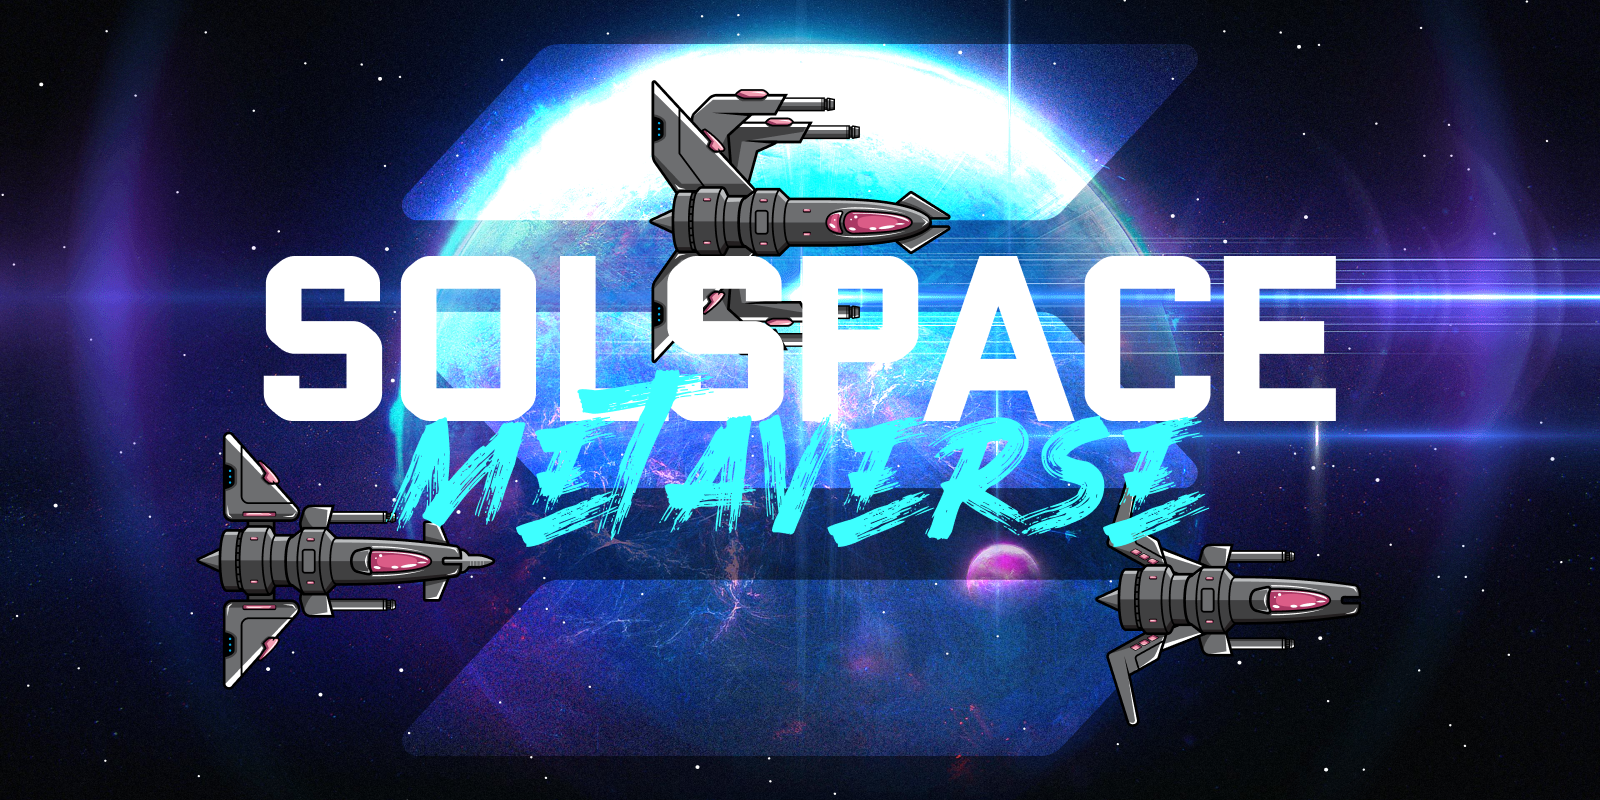
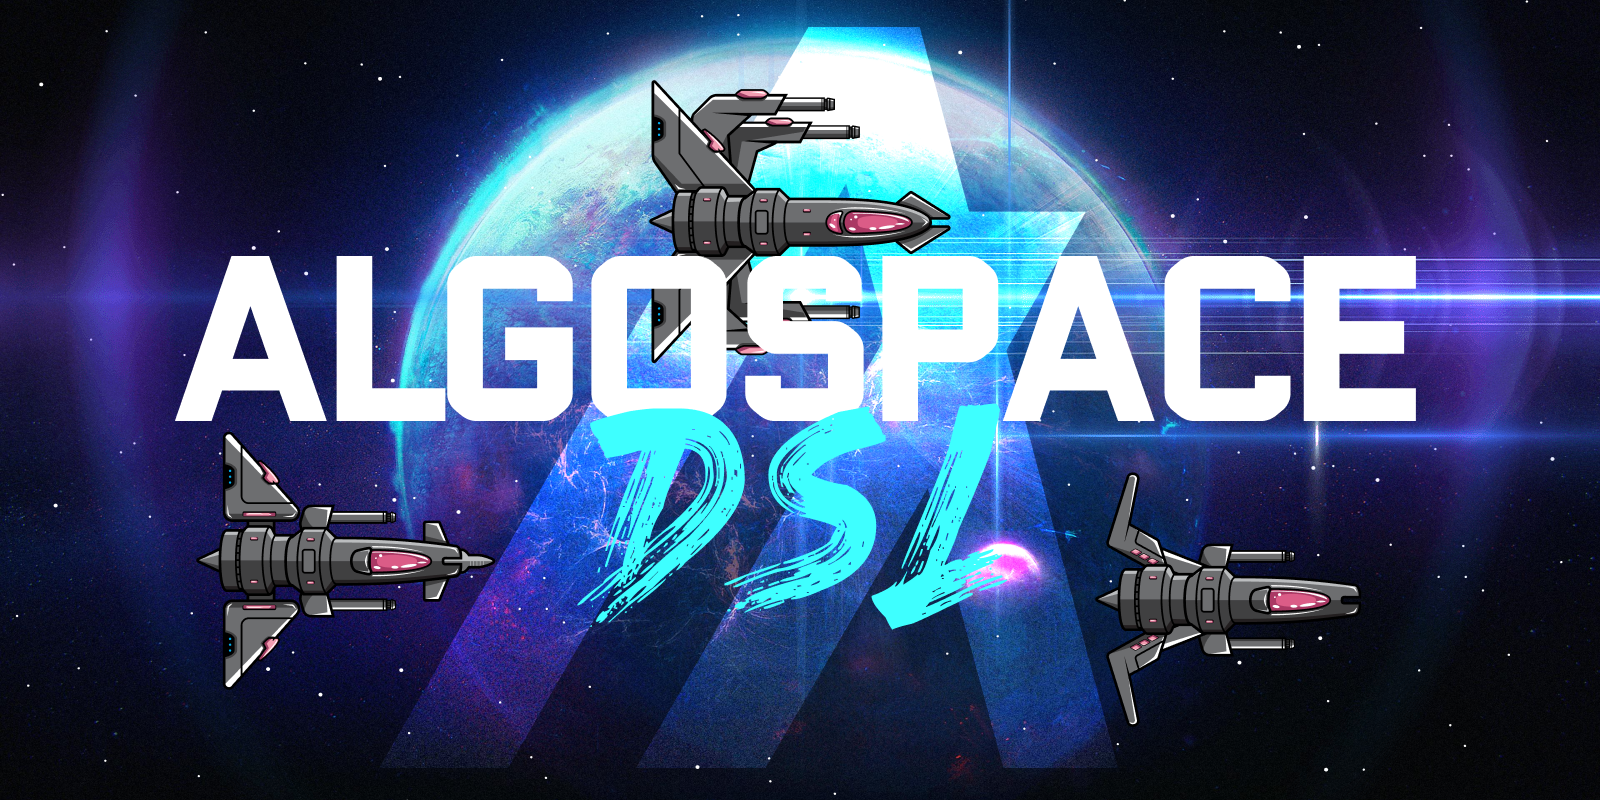
Mint NFT

Changed region(s): [[0.0938, 0.0312, 0.9062, 0.9688]]

diff --git a/src/game/src/blockchain/lib.ts b/src/game/src/blockchain/lib.ts
@@ -2,9 +2,13 @@ import algosdk from 'algosdk'
 import { ShipToken } from 'state/stateTypes'
 import { state } from '../state/state'
 
+declare const AlgoSigner: any
+
+let address: string
+let params: any
+
 export const connectWallet = async () => {
   try {
-    //@ts-ignore
     if (typeof AlgoSigner !== 'undefined') {
       console.log('AlgoSigner is installed.')
 
@@ -16,16 +20,39 @@ export const connectWallet = async () => {
       const algodClient = new algosdk.Algodv2(token, algodServer, port)
       const indexerClient = new algosdk.Indexer(token, indexerServer, port)
 
+      // Check health
       algodClient
         .healthCheck()
         .do()
         .then((d: any) => {
           console.log(d)
+
+          // Fetch accounts
+          AlgoSigner.accounts({
+            ledger: 'TestNet',
+          })
+            .then((d: any) => {
+              address = d[0]?.address
+              console.log(address)
+
+              // Get params
+              algodClient
+                .getTransactionParams()
+                .do()
+                .then((d: any) => {
+                  params = d
+                })
+                .catch((e: any) => {
+                  console.error(e)
+                })
+            })
+            .catch((e: any) => {
+              console.error(e)
+            })
         })
         .catch((e: any) => {
           console.error(e)
         })
-
     } else {
       console.log('AlgoSigner is NOT installed.')
     }
@@ -44,7 +71,68 @@ export const getShips = async () => {
   }
 }
 
-export const mintShip = async () => {}
+export const mintShip = async () => {
+  const creator = address
+  const defaultFrozen = false
+  const unitName = 'ALGOSPACE'
+  const assetName = 'ALGOSPACE Ship 0000'
+  const url = 'https://algospace.app/assets/ships/0000.json'
+  const managerAddr = undefined
+  const reserveAddr = undefined
+  const freezeAddr = undefined
+  const clawbackAddr = undefined
+  const total = 1 // NFTs have totalIssuance of exactly 1
+  const decimals = 0 // NFTs have decimals of exactly 0
+
+  // const txn = algosdk.makeAssetCreateTxnWithSuggestedParamsFromObject({
+  //   from: creator,
+  //   assetName,
+  //   unitName,
+  //   total: 1,
+  //   decimals: 0,
+  //   suggestedParams: { ...params },
+  // })
+
+  const txn = algosdk.makeAssetCreateTxnWithSuggestedParamsFromObject({
+    from: creator,
+    total,
+    decimals,
+    assetName,
+    unitName,
+    assetURL: url,
+    // assetMetadataHash: metadata,
+    defaultFrozen,
+    freeze: freezeAddr,
+    manager: managerAddr,
+    clawback: clawbackAddr,
+    reserve: reserveAddr,
+    suggestedParams: params,
+  })
+
+  const txn_b64 = AlgoSigner.encoding.msgpackToBase64(txn.toByte())
+  let signedTxs
+
+  // Sign Tx
+  AlgoSigner.signTxn([{ txn: txn_b64 }])
+    .then((d: any) => {
+      signedTxs = d
+
+      // Send Tx
+      AlgoSigner.send({
+        ledger: 'TestNet',
+        tx: signedTxs[0].blob,
+      })
+        .then((d: any) => {
+          console.log(d)
+        })
+        .catch((e: any) => {
+          console.error(e)
+        })
+    })
+    .catch((e: any) => {
+      console.error(e)
+    })
+}
 
 export const upgradeShip = async (ship: ShipToken) => {}
 
